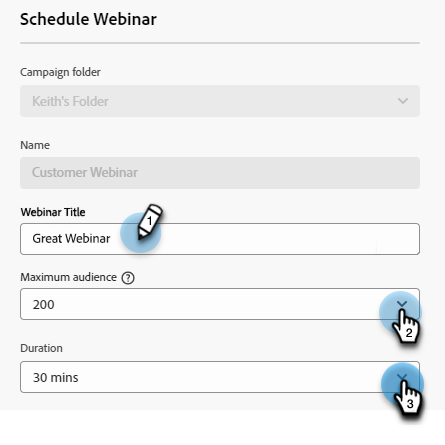
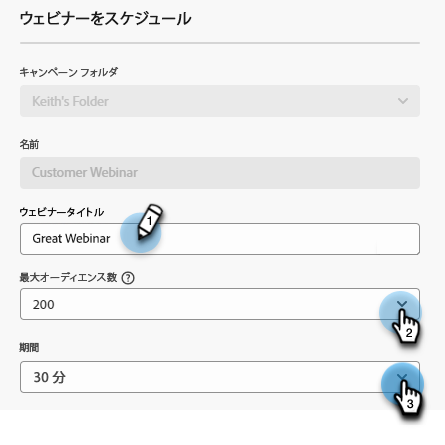
Updated by task 'AUTO_HANDOFF_1714484541839'  Changes for core/source commit https://git.corp.adobe.com/AdobeDocs/marketo.en/commit/47446db902f85e1b4a910d0924efc5beb82bffbe

diff --git a/help/marketo/product-docs/demand-generation/events/interactive-webinars/promoting-an-interactive-webinar.md b/help/marketo/product-docs/demand-generation/events/interactive-webinars/promoting-an-interactive-webinar.md
@@ -1,39 +1,39 @@
 ---
-description: インタラクティブウェビナーの昇格 – Marketo ドキュメント – 製品ドキュメント
+description: インタラクティブウェビナーのプロモーション - Marketo ドキュメント - 製品ドキュメント
 title: インタラクティブウェビナーのプロモーション
 feature: Interactive Webinars
 exl-id: d26f91ce-3a95-4247-9a52-085260bb15e8
 source-git-commit: 7f90ff09fbab7bc1559ce75b213cb86bd3cd25f4
-workflow-type: tm+mt
+workflow-type: ht
 source-wordcount: '563'
-ht-degree: 1%
+ht-degree: 100%
 
 ---
 
 # インタラクティブウェビナーのプロモーション {#promoting-an-interactive-webinar}
 
-インタラクティブウェビナーのプロモーションは、Launchpoint を使用してパートナーウェビナーをプロモーションするのと似ています。 インタラクティブなウェビナーイベントプログラムの作成時に、キャンペーンを実行するか、プログラムにメンバーをインポートすることで、プログラムにメンバーを追加できます。 インタラクティブウェビナーイベントプログラムに追加されたメンバーを確認するには、「メンバー」タブをクリックします。
+インタラクティブウェビナーのプロモーションは、Launchpoint を使用したパートナーウェビナーのプロモーションに似ています。インタラクティブなウェビナーイベントプログラムの作成時に、キャンペーンを実行するか、メンバーをプログラムに読み込むことで、プログラムにメンバーを追加できます。インタラクティブウェビナーイベントプログラムに追加されたメンバーを確認するには、「メンバー」タブをクリックします。
 
 ![](assets/promoting-an-interactive-webinar-1.png)
 
-メンバーがプログラムに追加または読み込まれたら、インタラクティブウェビナーイベントプログラム内でメールキャンペーンを作成して、すべてのプログラムメンバーに招待状を送信し、電子メールが配信されたらメンバーのステータスを「招待済み」に変更できます。
+メンバーがプログラムに追加または読み込まれた後、インタラクティブウェビナーイベントプログラム内でメールキャンペーンを作成して、すべてのプログラムメンバーに招待状を送信し、メールが配信されたらメンバーのステータスを「招待済み」に変更できます。
 
-このメールには、プログラムの特定の詳細を含めたり、ウェビナーに関する詳細情報（コンテンツ、発表者の情報など）が含まれる特定のページに受信者をリダイレクトするランディングページ URL を含めることができます を追加できます。 このランディングページは、インタラクティブウェビナーイベントプログラムのローカルアセットとして作成できます。
+このメールには、プログラムの具体的詳細を含めることができるほか、ウェビナーに関する詳細情報（コンテンツ、プレゼンターの情報など）を追加できる特定のページに受信者をリダイレクトするランディングページ URL を含めることもできます。このランディングページは、インタラクティブウェビナーイベントプログラムのローカルアセットとして作成できます。
 
-このウェビナーへの登録を要請するには、ランディングページでフォームを有効にし、フォームのクリック数をインタラクティブウェビナーイベントプログラムの有効な登録にリンクします。 次に、フォームの送信をトリガーとして使用し、プログラムのステータスを「招待済み」から「登録済み」に変更するキャンペーンを作成できます。
+このウェビナーへの登録を促すには、ランディングページでフォームを有効にし、フォームのクリック数をインタラクティブウェビナーイベントプログラムの有効な登録にリンクします。次に、フォームの送信をトリガーとして使用し、プログラムのステータスを「招待済み」から「登録済み」に変更するキャンペーンを作成できます。
 
 >[!NOTE]
 >
->インタラクティブウェビナーでは、複数のトリガーがトランジションを作成する場合があるので、「招待」から「登録済み」へのトランジションは自動的には行われません。
+>インタラクティブウェビナーでは、複数のトリガーがトランジションを作成する場合があるので、「招待済み」から「登録済み」へのトランジションは自動的には行われません。
 
-インタラクティブなウェビナーイベントプログラムでメンバーが「登録済み」プログラムステータスになると、Adobe Connectで作成されたウェビナーへの登録が自動的に行われます。 その後、登録データ（名、姓およびメール ID など）がAdobe Connectに転送されます。 つまり、ユーザーが参加者としてウェビナーに参加すると、ウェビナー中にプレゼンターまたはホストが情報を利用できるようになります。
+インタラクティブなウェビナーイベントプログラムでメンバーが「登録済み」プログラムステータスになると、Adobe Connect で作成されたウェビナーへの登録が自動的に行われます。その後、登録データ（名、姓およびメール ID など）が Adobe Connect に転送されます。つまり、ユーザーが参加者としてウェビナーに参加すると、ウェビナー中にプレゼンターまたはホストが情報を利用できるようになります。
 
-登録から数分以内に、メンバーのウェビナー URL が「メンバー」タブに入力されます。 ウェビナー URL の列が見つからない場合は、その列がビューに追加されていることを確認します。 これは登録メンバーごとにパーソナライズされた URL で、認証を必要とせずにスケジュールされた時間にウェビナーにエントリできます。 内部的に交換されるトークンは、メンバーの認証を処理します。
+登録から数分以内に、メンバーのウェビナー URL が「メンバー」タブに入力されます。ウェビナー URL の列が見つからない場合は、その列がビューに追加されていることを確認します。これは登録メンバーごとにパーソナライズされた URL で、認証を必要とせずにスケジュールされた時間にウェビナーにエントリできるようになります。内部で交換されるトークンは、メンバーの認証を処理します。
 
-トークンを使用して、ウェビナー URL をメールキャンペーンに含め、メンバーがイベントに登録されたことを伝えたり、参加 URL を使用してスケジュールした時間にウェビナーに参加したりできます。 カレンダートークンは、同じメールキャンペーンで使用して、ウェビナースケジュールをメンバーのカレンダーに確実に追加できます。
+トークンを使用して、個々のメンバーに対してウェビナー URL をメールキャンペーンに含めると、メンバーがイベントに登録されたことを伝えたり、参加 URL を使用してスケジュールした時間にウェビナーに参加したりできます。カレンダートークンを同じメールキャンペーンで使用すると、ウェビナースケジュールをメンバーのカレンダーに確実に追加できます。
 
-イベントプログラムの「概要」タブの右側にあるリンクを使用して、ランディングページとメールキャンペーンを作成できます。 イベントに関連する残りのプロモーションは、Launchpoint 統合を使用したパートナーウェビナーと同じままです。
+イベントプログラムの「概要」タブの右側にあるリンクを使用して、ランディングページやメールキャンペーンを作成できます。イベントに関連する残りのプロモーションは、Launchpoint 統合を使用したパートナーウェビナーと同じです。
 
 ![](assets/promoting-an-interactive-webinar-2.png)
 
-インタラクティブウェビナーを使用すると、ウェビナーの前、中、または後に登録を依頼できます。 すべての場合、リードとウェビナー URL を共有するだけで済みます。 ウェビナーが開始される前にリンクをクリックすると、ウェビナー前のランディングページに送信されます。 ウェビナー中にクリックすると、進行中のウェビナーに移動します。 ウェビナーの終了後にクリックすると、ウェビナーの録画に移動します。
+インタラクティブウェビナーでは、ウェビナー前、ウェビナー中またはウェビナー後に登録を促すことができます。いずれの場合も、リードとウェビナー URL を共有するだけです。ウェビナーの開始前にリンクをクリックすると、ウェビナー前のランディングページに移動します。ウェビナー中にクリックすると、進行中のウェビナーに移動します。ウェビナーの終了後にクリックすると、ウェビナーの録画に移動します。

diff --git a/help/marketo/product-docs/demand-generation/events/interactive-webinars/event-workflows.md b/help/marketo/product-docs/demand-generation/events/interactive-webinars/event-workflows.md
@@ -4,9 +4,9 @@ title: イベントワークフロー
 exl-id: c9f44d9f-9210-4303-a9b5-22be1376efc4
 feature: Interactive Webinars
 source-git-commit: 7f90ff09fbab7bc1559ce75b213cb86bd3cd25f4
-workflow-type: tm+mt
+workflow-type: ht
 source-wordcount: '401'
-ht-degree: 52%
+ht-degree: 100%
 
 ---
 
@@ -20,9 +20,9 @@ ht-degree: 52%
 >
 >ウェビナーが完了していない場合や何らかの理由でデータを受け取っていない場合は、「ダッシュボード」タブはまだ使用できません。
 
-## 手動同期 {#manual-sync}
+## 手動による同期 {#manual-sync}
 
-インタラクティブウェビナーを使用すると、ウェビナーのエンゲージメントデータを、ウェビナーが終了してから 2 時間以内に自動で受信していない場合、Adobe Connectから取得できます。 概要ページに「今すぐ同期」ボタンが表示されます。 クリック **今すぐ同期** Adobe Connectからの取り込みをトリガーして、Marketo Engageにデータを入力します。 同期が行われると、ボタンが消え、「ダッシュボード」タブにデータが入力されます。
+インタラクティブウェビナーでは、ウェビナーのエンゲージメントデータを、ウェビナーが終了してから 2 時間以内に自動で受信していない場合、Adobe Connect から取得できます。概要ページに「今すぐ同期」ボタンが表示されます。「**今すぐ同期**」をクリックすると、Adobe Connect からの取り込みをトリガーして、Marketo Engage にデータが入力されます。同期が行われると、ボタンが非表示になり、「ダッシュボード」タブにデータが入力されます。
 
 ## ダッシュボードウィジェット {#dashboard-widgets}
 
@@ -32,21 +32,21 @@ ht-degree: 52%
 
 **出席**：ウェビナーに出席した様々なメンバーの出席期間を、ウェビナー全体の期間と比較して、割合でハイライト表示します。
 
-**ポールのパフォーマンス**:Adobe Connectによるウェビナー中に実施された様々な調査と、各回答にわたって調査に参加して回答したメンバーの分布を表示します。
+**投票のパフォーマンス**：Adobe Connect を活用したウェビナー中に開始された様々な投票と、投票に参加して回答したメンバーの各回答にわたる分布を表示します。
 
-**クリックしてファイルをダウンロード アクティビティ**：ウェビナー中にクリックされたファイルおよび Web リンクのダウンロード数を提供します。Adobe Connectには、ウェビナーに参加し、その特定のアクションを実行した様々なメンバーが参加します。
+**クリックしてファイルをダウンロードするアクティビティ**：Adobe Connect を活用したウェビナー中にウェビナーに参加して、特定のアクションを取った様々なメンバーによるファイルのダウンロード数とクリックされた web リンク数を提供します。
 
 ## ウェビナー録画 {#webinar-recording}
 
-「概要」タブに移動して録画したウェビナーを表示したり、リンクを取得して共有したり、コピーをダウンロードしたりします。
+「概要」タブに移動して、録画されたウェビナーを表示したり、リンクを取得して共有したり、コピーをダウンロードできます。
 
 ![](assets/event-workflows-2.png)
 
 >[!NOTE]
 >
->* インタラクティブウェビナーは自動的には記録されません。 ウェビナーが開始したら、ウェビナー名の横にあるドロップダウンをクリックし、「**セッションを録画**」を選択します。
->* 録画は MP4 形式でダウンロードされます。
->* 録画を共有すると、リンクを持っているユーザーが誰でも視聴できるので、対象オーディエンスと共有されていることを確認します。
+>* インタラクティブウェビナーは自動録画されません。ウェビナーが開始したら、ウェビナー名の横にあるドロップダウンをクリックし、「**セッションを録画**」を選択します。
+>* MP4 形式で録画をダウンロードできます。
+>* 録画を共有すると、リンクを持っているユーザは誰でも視聴できるので、共有する対象が意図したオーディエンスであることを確認します。
 
 ## トリガーとフィルター {#triggers-and-filters}
 

diff --git a/help/marketo/release-notes/current.md b/help/marketo/release-notes/current.md
@@ -4,17 +4,17 @@ title: 最新のリリースノート
 exl-id: a2eccad5-73ad-48f9-8091-51cee23824e1
 feature: Release Information
 source-git-commit: 8473c4d59210bb18c3968a56883034febf00c320
-workflow-type: tm+mt
+workflow-type: ht
 source-wordcount: '399'
-ht-degree: 78%
+ht-degree: 100%
 
 ---
 
 # リリースノート：2024年4月 {#release-notes-apr-24}
 
-2024年4月リリースに含まれるすべての機能を以下に示します。機能の可用性についてはお使いの Marketo Engage のエディションをご確認ください。
+2024年4月リリースに含まれるすべての機能を以下に示します。機能の可用性については、お使いの Adobe Marketo Engage のエディションをご確認ください。
 
-Adobe Dynamic Chat専用のリリースノート [詳細はこちら](/help/marketo/release-notes/dynamic-chat.md){target="_blank"}.
+Adobe Dynamic Chat 専用のリリースノートについて詳しくは、[こちらを参照](/help/marketo/release-notes/dynamic-chat.md){target="_blank"}してください。
 
 >[!AVAILABILITY]
 >
@@ -32,10 +32,10 @@ Adobe Dynamic Chat専用のリリースノート [詳細はこちら](/help/mark
    <th style="width:25%">ドキュメント</th>
   </tr>
      <tr> 
-   <td><strong>インタラクティブウェビナーの機能強化</strong>：ホストと発表者に対して、ウェビナータイトルの追加、部屋名の変更、イベント配信後にエンゲージメントデータを手動で同期する機能を提供できるようになりました。</td> 
+   <td><strong>インタラクティブウェビナーの機能強化</strong>：ホストとプレゼンターに対して、ウェビナータイトルの追加、部屋名の変更、イベント配信後にエンゲージメントデータを手動で同期する機能を提供できるようになりました。</td> 
    <td>出荷済み</td>
    <td><li><a href="/help/marketo/product-docs/demand-generation/events/interactive-webinars/create-an-interactive-webinar.md">インタラクティブウェビナーの作成</a></li>
-   <li><a href="/help/marketo/product-docs/demand-generation/events/interactive-webinars/event-workflows.md#manual-sync">手動同期</a></li></td>
+   <li><a href="/help/marketo/product-docs/demand-generation/events/interactive-webinars/event-workflows.md#manual-sync">手動による同期</a></li></td>
   </tr>
   <tr> 
    <td> </td> 
@@ -54,9 +54,9 @@ Adobe Dynamic Chat専用のリリースノート [詳細はこちら](/help/mark
    <td> </td>
   </tr>
     <tr> 
-   <td><strong>新しいユーザ＆ロールの権限</strong>：新しい権限が利用可能になり、ユーザは Marketo Engage へのより詳細なアクセスが可能になります。新しいエクスペリエンスや Predictive Audiences など、以前はゲートされていなかった管理者の一部を制御し、権限を分割してアセット監査記録と管理者監査記録へのアクセス権を個別に付与し、アセットやフォルダーの新しい作成および移動権限を利用して読み取り専用ユーザーが変更を加えないようにします。 新しい権限は 4 月 26 日（PT）以降お使いのMarketo Engageインスタンスに表示されますが、現時点ではパッシブであり、今四半期後にアクセスできるようになります。</td> 
+   <td><strong>新しいユーザ＆ロールの権限</strong>：新しい権限が利用可能になり、ユーザは Marketo Engage へのより詳細なアクセスが可能になります。新しいエクスペリエンスや予測オーディエンスなど、これまでゲートされていなかった管理部分を制御し、アセット監査記録と管理監査記録へのアクセス権を個別に付与する権限を分割し、アセットとフォルダーに対する新規作成および移動権限を利用して、読み取り専用ユーザが変更を行うことを防ぎます。新しい権限は 4月26日（PT）以降、お使いの Marketo Engage インスタンスに表示されますが、現時点ではパッシブであり、今四半期後半にアクセス可能になる予定です。</td> 
    <td>出荷済み</td>
-   <td><a href="/help/marketo/product-docs/administration/users-and-roles/descriptions-of-role-permissions.md">ロールの権限の説明</a></td>
+   <td><a href="/help/marketo/product-docs/administration/users-and-roles/descriptions-of-role-permissions.md">ロール権限の説明</a></td>
   </tr>
  </tbody> 
 </table>

diff --git a/help/marketo/product-docs/demand-generation/events/interactive-webinars/create-an-interactive-webinar.md b/help/marketo/product-docs/demand-generation/events/interactive-webinars/create-an-interactive-webinar.md
@@ -4,9 +4,9 @@ title: インタラクティブウェビナーの作成
 exl-id: 91fdede6-2e5a-4895-9893-852d0441aa2a
 feature: Interactive Webinars
 source-git-commit: 7f90ff09fbab7bc1559ce75b213cb86bd3cd25f4
-workflow-type: tm+mt
+workflow-type: ht
 source-wordcount: '223'
-ht-degree: 30%
+ht-degree: 100%
 
 ---
 
@@ -26,13 +26,13 @@ ht-degree: 30%
 
    ![](assets/create-an-interactive-webinar-3.png)
 
-1. 「チャネル」ドロップダウンをクリックし、次の条件を満たすチャネルを選択します _ウェビナー付きイベント_ を「適用先」列に入力します。 この例では、を選択します。 **ウェビナー**.
+1. チャネルドロップダウンをクリックし、「適用先」列に&#x200B;_ウェビナー付きイベント_&#x200B;が含まれるチャネルを選択します。この例では、「**ウェビナー**」を選択しています。
 
    ![](assets/create-an-interactive-webinar-4.png)
 
    >[!NOTE]
    >
-   >どのチャネルが適用されているかを確認するには _ウェビナー付きイベント_&#x200B;に移動します。 **Admin** > **タグ**. 「適用先」は中央の列にする必要があります。 詳しくは、手順 5 の「適用先」を参照してください [この記事](/help/marketo/product-docs/administration/tags/create-a-program-channel.md){target="_blank"}.
+   >_ウェビナー付きイベント_&#x200B;に適用されるチャネルを確認するには、**管理者**／**タグ**&#x200B;に移動します。「適用先」は中央の列である必要があります。「適用先」について詳しくは、[この記事](/help/marketo/product-docs/administration/tags/create-a-program-channel.md){target="_blank"}の手順 5 を参照してください。
 
 1. 「**インタラクティブウェビナー**」を選択し、「**次へ**」をクリックします。
 
@@ -42,15 +42,15 @@ ht-degree: 30%
    >
    >パートナーウェビナーの情報は、こちらを参照してください。
 
-1. ウェビナーのタイトルを入力します。 最大オーディエンスサイズと持続時間を設定します。
+1. ウェビナーのタイトルを入力します。ウェビナーの最大オーディエンスサイズと所要時間を設定します。
 
    ![](assets/create-an-interactive-webinar-6.png)
 
    >[!NOTE]
    >
-   >* このウェビナーのタイトルは、参加者が参加すると表示されます。 Marketo Engageインスタンスのインタラクティブウェビナーイベントプログラムの名前やウェビナールームの名前とタイトルが異なることが重要です。
+   >* このウェビナーのタイトルは、参加者が参加すると表示されます。Marketo Engage インスタンスのインタラクティブウェビナーイベントプログラムの名前やウェビナールームの名前と、異なるタイトルを付けることが重要です。
    >
-   >* ウェビナータイトルを再利用することはできません。 それぞれがMarketo インスタンス内で一意である必要があります。
+   >* ウェビナータイトルは、再利用できません。それぞれが Marketo インスタンス内で一意である必要があります。
    >
    >* 必要に応じて、後の段階でウェビナーのタイトルを変更できます。
 
@@ -60,8 +60,8 @@ ht-degree: 30%
 
 <p>
 
-次は、 [ウェビナーのデザイン](/help/marketo/product-docs/demand-generation/events/interactive-webinars/designing-interactive-webinars.md){target="_blank"}.
+次に、[ウェビナーをデザイン](/help/marketo/product-docs/demand-generation/events/interactive-webinars/designing-interactive-webinars.md){target="_blank"}します。
 
 >[!MORELIKETHIS]
 >
->[プレゼンターやコホストを追加する方法を学ぶ](/help/marketo/product-docs/demand-generation/events/interactive-webinars/add-a-webinar-team.md){target="_blank"}
+>[プレゼンターや共同主催者を追加する方法について詳しくは、こちらを参照してください](/help/marketo/product-docs/demand-generation/events/interactive-webinars/add-a-webinar-team.md){target="_blank"}

diff --git a/help/marketo/product-docs/demand-generation/events/interactive-webinars/interactive-webinars-overview.md b/help/marketo/product-docs/demand-generation/events/interactive-webinars/interactive-webinars-overview.md
@@ -4,9 +4,9 @@ title: インタラクティブウェビナーの概要
 exl-id: c454f0a5-c9c6-48a4-8bbf-e1b10dc00eec
 feature: Interactive Webinars
 source-git-commit: 7f90ff09fbab7bc1559ce75b213cb86bd3cd25f4
-workflow-type: tm+mt
+workflow-type: ht
 source-wordcount: '517'
-ht-degree: 88%
+ht-degree: 100%
 
 ---
 
@@ -52,9 +52,9 @@ ht-degree: 88%
 
 リードの「名」フィールドが空の場合、ウェビナーに登録できません。この問題は、有効な名を入力することで解決できます。
 
-**組織の VPN にアクセスする際にウェビナーを提示すると、オーディオ/ビデオの問題が発生します。 どうすればいいですか？**
+**組織の VPN にアクセスする際にウェビナーを行うと、オーディオ／ビデオの問題が発生します。どうすればいいですか？**
 
-インタラクティブウェビナーの配信プラットフォームであるAdobe Connectは、オーディオ/ビデオ/画面の共有に WebRTC を使用します。 貴社のネットワークファイアウォールが、WebRTC ベースの通信に使用する IP アドレス/ポートをブロックしている可能性があります。 WebRTC が機能するには、IT チームがこれらのポートを許可する必要があります。 [詳細情報](https://helpx.adobe.com/in/adobe-connect/firewall-proxy-server-configuration-adobe-connect.html){target="_blank"}
+インタラクティブウェビナーの配信プラットフォームである Adobe Connect は、オーディオ／ビデオ／画面の共有に WebRTC を使用します。組織のネットワークファイアウォールが、WebRTC ベースの通信に使用する IP アドレス／ポートをブロックしている可能性があります。WebRTC が機能するようにするには、IT チームがこれらのポートを許可する必要があります。[詳細情報](https://helpx.adobe.com/jp/adobe-connect/firewall-proxy-server-configuration-adobe-connect.html){target="_blank"}。
 
 **インタラクティブウェビナーは自動的に録画されますか？**
 

diff --git a/help/marketo/release-notes/release-schedule.md b/help/marketo/release-notes/release-schedule.md
@@ -5,7 +5,7 @@ title: リリーススケジュール
 exl-id: 38bd10e3-7f47-46f7-b9b0-83e1ab50014c
 feature: Release Information
 source-git-commit: 8473c4d59210bb18c3968a56883034febf00c320
-workflow-type: tm+mt
+workflow-type: ht
 source-wordcount: '132'
 ht-degree: 100%
 
